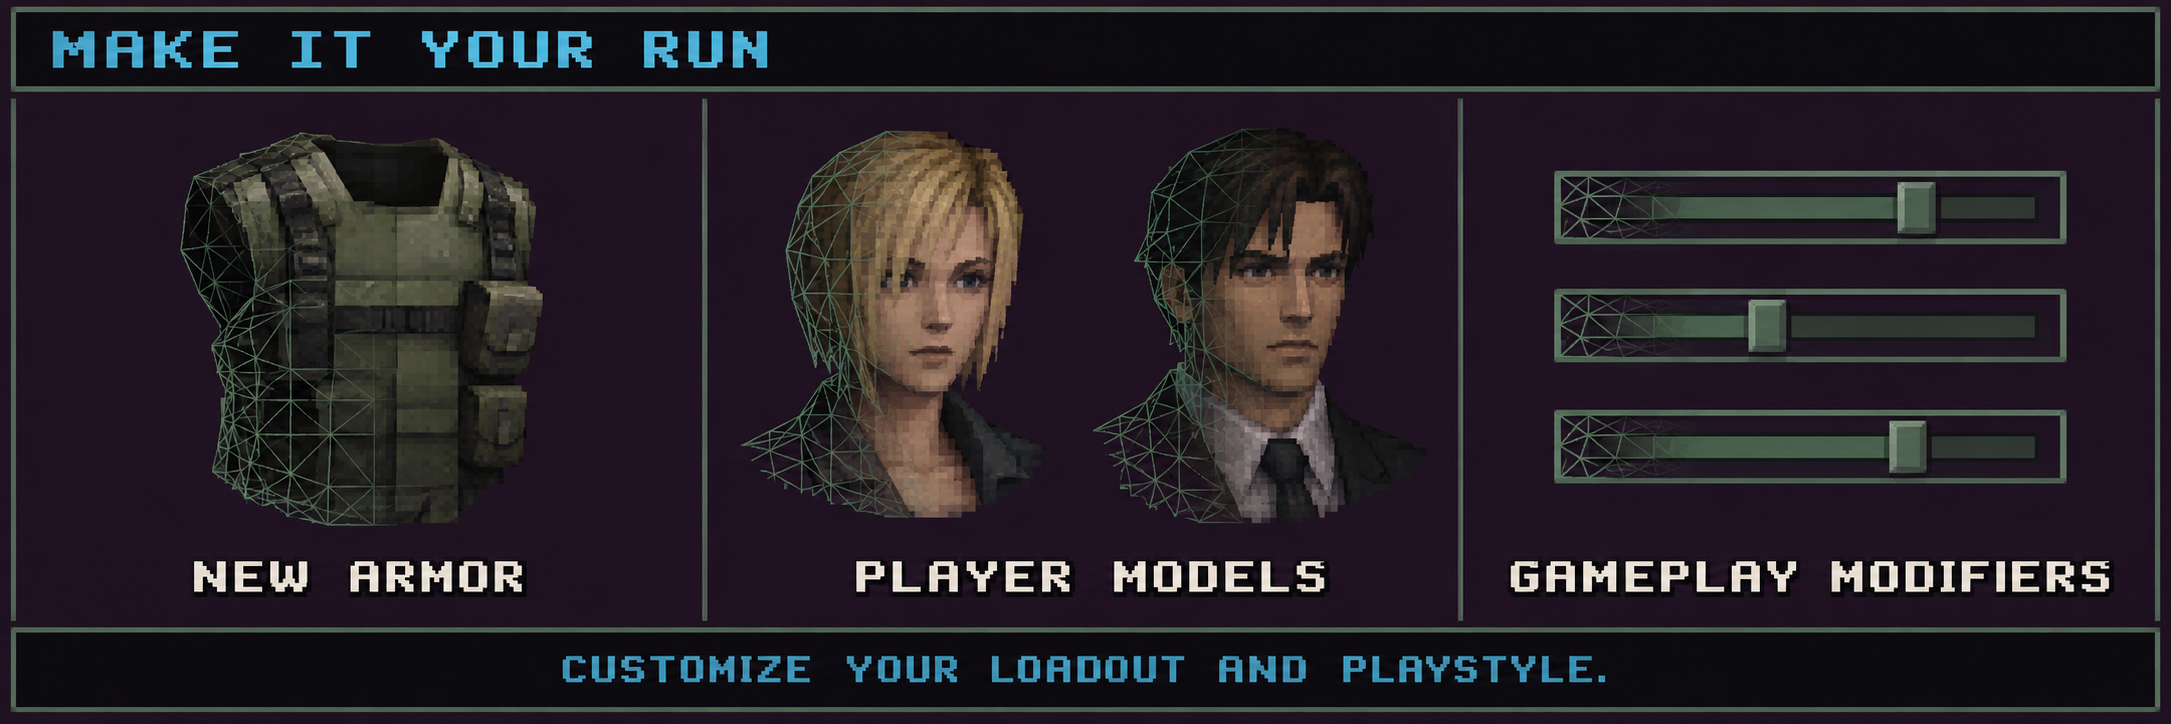
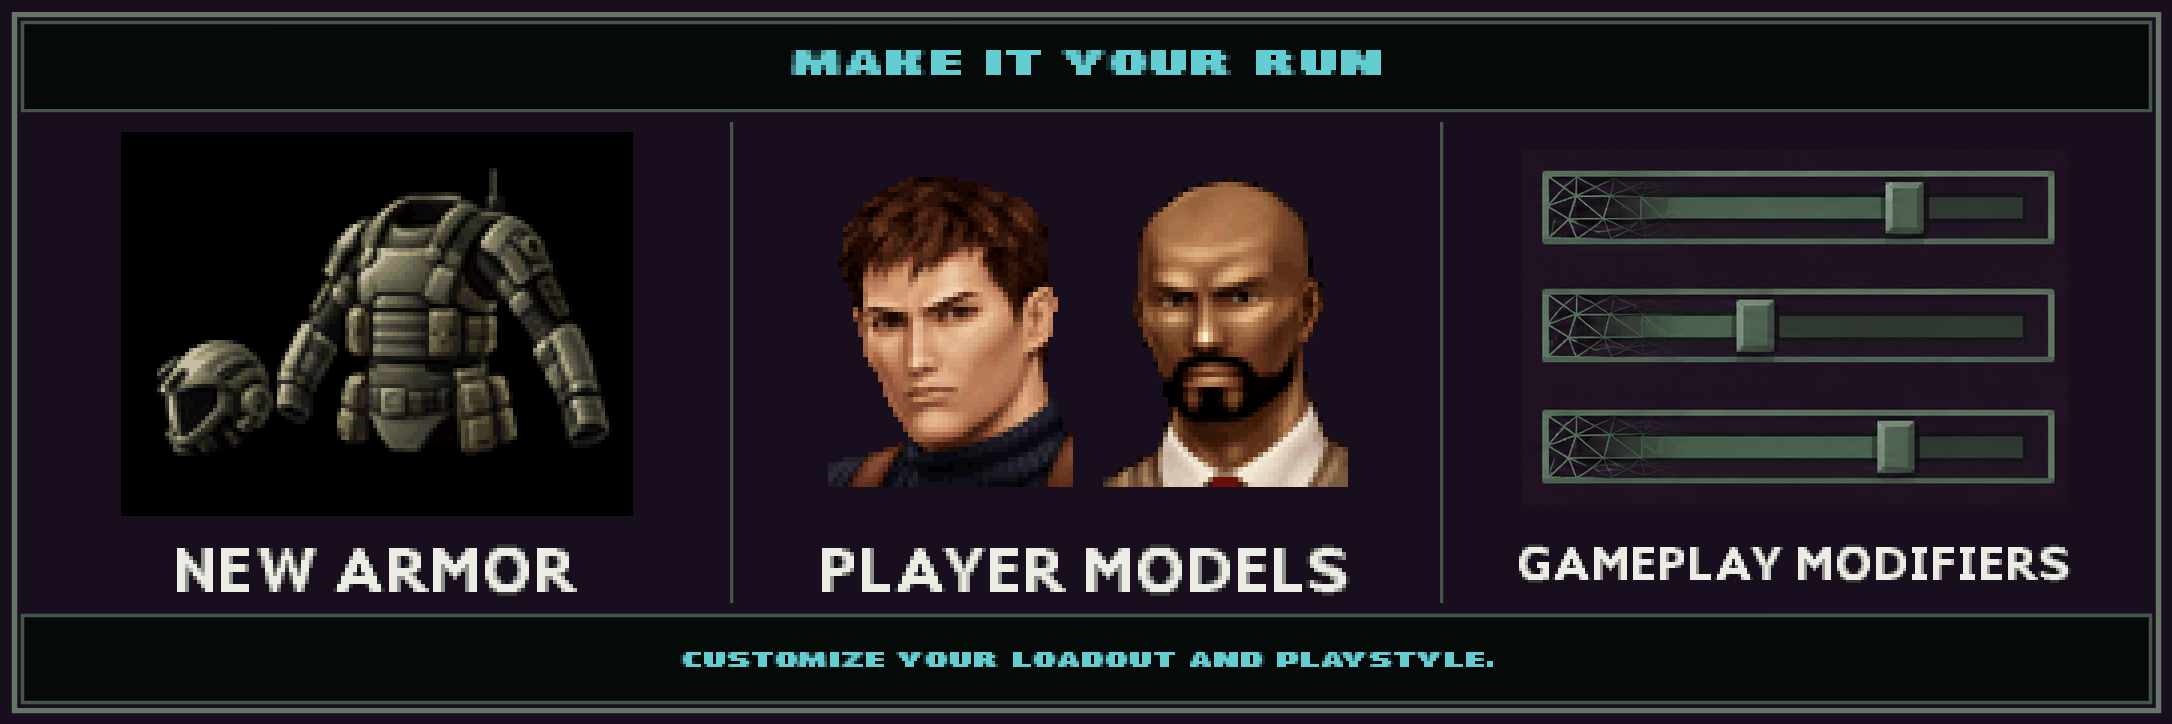
Use game assets and native lettering in feature panels

diff --git a/docs/images/features.md b/docs/images/features.md
@@ -1,32 +1,53 @@
 # Feature illustrations
 
-Created on 14 October 2026 using the built-in image generation tool. These are
-conceptual documentation illustrations, not screenshots, extracted assets or
-promises of additional characters, enemies or mechanics.
+Revised on 14 October 2026 to replace fictional generated objects with actual
+project/game resources at the user's request. Both PNGs are 2172 × 724 pixels.
+They are documentation compositions, not screenshots or additional game content.
+
+## Current composition
 
 - `feature-randomization.png`: enemies, items, shops, magic, music and seed-based configuration.
 - `feature-customization.png`: new armor, alternate player models and optional gameplay modifiers.
 
-The approved README banner was visually inspected as the style reference. Both
-images use the same dark plum, grey-green and cyan menu palette, restrained pixel
-lettering and green wireframe transitions. Unlike the banner's final title, the
-lettering in these two illustrations was generated, not typeset from the game font.
-The conceptual portraits and icons are illustrative and do not depict exact game
-models. Each image was generated once and visually checked for spelling, layout,
-feature accuracy and consistency with the approved banner.
+ImageMagick composes the sources directly. Pixel assets are enlarged with
+nearest-neighbor sampling; their colors, facial features and shapes are not
+regenerated. The Stranger model preview is cropped and reduced. Header, footer
+and feature labels use the original USA game font and its glyph metrics, as
+described in [the banner notes](README.md). The dark plum panels and restrained
+grey-green rules follow the approved banner's menu styling.
 
-## Randomization prompt
+## Sources
 
-```text
-Use case: ads-marketing / infographic-diagram. Make ONE understated horizontal README feature illustration for the Randomized Eve II project, a Parasite Eve II randomizer. Match the approved banner visible in the conversation: opaque very dark plum-purple menu panel, thin worn grey-green rectangular border, sparse muted green low-polygon wireframe transitioning into small solid game-like objects, small cyan section label and bold warm ivory chunky pixel lettering. PS1 interface, simple measured layout, minimal decorative effects. Aspect ratio 3:1, approximately 2172x724.
-Composition: cyan heading "REMIX THE JOURNEY" on a narrow black top strip. Beneath it, FIVE equal vertical menu cells arranged horizontally, separated by restrained vertical rules. In each cell a tasteful small original conceptual PS1-style icon emerging from a sparse green triangular mesh and a single ivory label beneath. Icons and labels left to right: a crouched nonhuman mutant silhouette for "ENEMIES"; a small red medical kit with two ammo cartridges for "ITEMS"; a plain item-storage case for "SHOPS"; a small blue-orange energy sphere for "MAGIC"; a small musical note with a restrained waveform for "MUSIC". Bottom thin black strip with exact small cyan text "CHOOSE YOUR OPTIONS. SHARE YOUR SEED."
-Keep everything beautifully legible at README scale, flat deep plum background, crisp simple rectangular framing, pixel-edge lettering with grey bevel/shadow like original Parasite Eve II menu typography. Icons should look like restrained period game inventory illustrations, not photorealistic or generic modern UI stickers. Only the stated text, no extra stats or numbers. This is a conceptual promotional illustration, NOT a game screenshot, no invented gameplay, no characters, no weapon combat, no claims about bosses. NO neon bloom, NO excessive filigree, NO metallic chrome, NO gradients on lettering, NO modern rounded cards, NO giant title. Cohesive with a dark purple survival-horror inventory screen.
-```
+The following paths refer to the development workspace from which this standalone
+source edition was prepared. They are provenance records, not build dependencies.
+No ROMs, font atlas or extraction tools are required to display these final PNGs.
 
-## Customization prompt
+| Panel | Actual source | Treatment |
+| --- | --- | --- |
+| Enemies | `blender_pg/patio_stranger_0x13/patio-preview.png` | Preview render of the original Patio Stranger game model; crop and reduction. This is not an emulator screenshot. |
+| Items | `pe2randomizer/art/new-weapons-ak-20261006/references/m4a1-inventory.png` | Original retail M4A1 inventory image, enlarged 3×. It represents the weapon/item pool; it is not the parked AK variant. |
+| Shops | Original game font | `BP`, the game's shop currency abbreviation; no invented shop art. |
+| Magic | Native retail UI atlas, 4 bpp with CLUT `0x3C08` | Twelve original PE icons, UV rectangle `(176,128)` through `(223,191)`, enlarged 5×. Atlas originates from STAGE0.CDF folder 1, texture 3 and CLUT 4, rendered by the existing UI texture inspection tooling. |
+| Music | Original game font | `BGM`; no invented in-game music icon. |
+| New armor | `pe2randomizer/art/armor-restyle-20261005/approved-game-20261006/assets/015mini.png` | Approved Power Armor inventory image in its final game palette, enlarged 4×, including its separate helmet. This image was AI-assisted during the earlier armor art workflow. |
+| Player models | `pe2randomizer/art/male-players-20261007/game/kyle.png` and `rupert.png` | Approved game-ready Kyle and Rupert portrait images, enlarged 5× with their existing transparency preserved. These portraits were AI-assisted during the earlier portrait workflow. |
+| Gameplay modifiers | Crop from the initial generated customization illustration | Three abstract option sliders retained as a documentation motif. They are not a claim that the game contains these controls. |
 
-```text
-Use case: ads-marketing / infographic-diagram. Make ONE understated horizontal README feature illustration for the Randomized Eve II project, a Parasite Eve II randomizer. This is a companion to the just-generated REMIX THE JOURNEY feature panel and the approved README banner. Maintain their EXACT graphic language: opaque very dark plum-purple menu panel, thin worn grey-green rectangular border and dividers, simple cyan pixel section label in narrow black header, ivory chunky pixel labels with subtle dark offset shadows. Small conceptual PS1 inventory illustrations emerging from sparse muted green triangular low-polygon wireframe. Aspect ratio 3:1 approximately 2172x724.
-Top header text precisely "MAKE IT YOUR RUN". Beneath it THREE equally sized columns. Column one: a torso-only olive tactical armored vest floating in inventory presentation, with no head, body or mannequin; the lower left quarter transitions into coherent green wireframe; exact label "NEW ARMOR". Column two: two small clean shoulder-up conceptual polygon character portraits side by side, blonde woman and dark-haired man in a simple suit, half materialized from muted green wireframe. They are generic conceptual illustrations representing alternate playable models, not new named characters or promised exact screenshots. Exact label "PLAYER MODELS". Column three: three restrained horizontal green configuration sliders in a grey-green rectangular frame with subtle varying knob positions; small meshes transition into solid frame, exact label "GAMEPLAY MODIFIERS". No labels or numbers inside sliders. Bottom narrow black strip, exact cyan text "CUSTOMIZE YOUR LOADOUT AND PLAYSTYLE."
-Keep sparse polished layout, balanced visual weights, exact legible English labels, flat plum background, quiet green lines, restrained period low-resolution textures. Do not include actual fake gameplay, guns, extra text, additional character figures, badges or stat changes. NO ornate gold, NO bright neon glow, NO modern rounded cards, NO gradient text, NO grunge overlays. The visual should belong to the same original PS1 purple inventory interface as the preceding feature panel and banner.
-```
+## Generation and revision history
+
+The initial two illustrations were made with the built-in image generation tool,
+one call per image. Their prompts requested a simple PS1-style dark plum menu,
+thin grey-green borders, cyan headings, ivory pixel labels and muted green
+wireframe transitions. The first prompt specified five illustrated categories:
+enemies, items, shops, magic and music, with the footer “CHOOSE YOUR OPTIONS.
+SHARE YOUR SEED.” The second specified armor, player portraits and three abstract
+configuration sliders, with the footer “CUSTOMIZE YOUR LOADOUT AND PLAYSTYLE.”
+
+The user then requested real in-game/project art. The current revision uses
+direct compositing rather than asking the generator to redraw those assets.
+Only the abstract slider motif from the first generated customization image is
+retained. All lettering was replaced with the original game's bitmap glyphs.
+
+Both final panels were visually inspected for readable English labels, source
+fidelity, clipping and consistency with the README banner. The imagery does not
+advertise boss randomization, debug loadouts or exhaustive gameplay validation.
